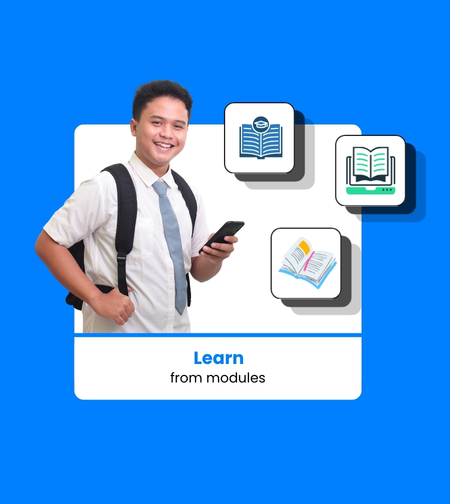
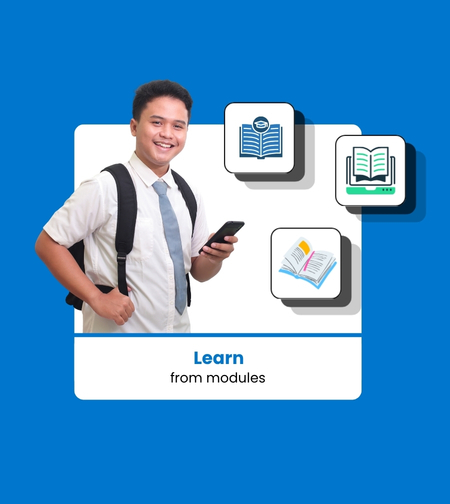
commit

diff --git a/css_folder/style.css b/css_folder/style.css
@@ -97,7 +97,9 @@ body {
     /* border-left: 1px solid rgba(0, 0, 0, 0.1); */
     /* background-color: var(--bg-page); */
     /* background: radial-gradient(ellipse 120% 80% at 50% -10%, rgba(0, 207, 255, 0.16), transparent 60%), linear-gradient(180deg, var(--bg-darkest) 0%, var(--bg-dark) 55%, var(--bg-panel) 100%); */
-    background-color: var(--bg-section-alt);
+    /* background-color: var(--bg-section-alt); */
+    /* background-color: #ffffff; */
+    background-color: var(--panel-bg);
     position: relative;
     overflow-x: hidden;
     overflow-y: visible;
@@ -842,11 +844,14 @@ div.rightbar{
     border: 1px solid var(--border-dim); */
     /* background: radial-gradient(ellipse 60% 100% at 100% 0%, rgba(0, 207, 255, 0.16), transparent 60%), radial-gradient(ellipse 50% 80% at 0% 100%, rgba(0, 255, 136, 0.12), transparent 60%), linear-gradient(135deg, var(--bg-dark) 0%, var(--bg-darkest) 100%); */
     /* background: linear-gradient(130deg, #0A1628 0%, #0F2845 60%, #0A2040 100%); */
+    /* background-color: var(--panel-bg); */
     background-color: #ffffff;
+    /* border: 1px solid var(--panel-border); */
+    /* box-shadow: 0 20px 50px rgba(0, 40, 100, 0.18); */
     border: 1px solid var(--panel-border);
     /* box-shadow: 0 1px 4px rgba(0, 0, 0, 0.05); */
-    /* box-shadow: 0 1px 3px rgba(0, 0, 0, 0.06), 0 1px 2px rgba(0, 0, 0, 0.04); */
-    /* border-radius: 16px; */
+    box-shadow: 0 1px 3px rgba(0, 0, 0, 0.06), 0 1px 2px rgba(0, 0, 0, 0.04);
+    border-radius: 10px;
     display: flex;
     justify-content: space-between;
     align-items: center;
@@ -987,6 +992,8 @@ div.rightbar{
     /* background-color: #ffffff; */
     border: 1px solid var(--panel-border);
     /* background-color: var(--light-card); */
+    box-shadow: 0 1px 3px rgba(0, 0, 0, 0.06), 0 1px 2px rgba(0, 0, 0, 0.04);
+    border-radius: 10px;
     background-color: var(--bg-main);
     /* padding: 1.5rem 1.1rem 1.5rem 1.1rem; */
     /* padding: 1.5rem; */
@@ -1415,7 +1422,8 @@ div.rightbar{
     width: 100%;
     /* height: 300px; */
     /* border: 2px solid #6CCA55; */
-    /* box-shadow: 0 1px 3px rgba(0, 0, 0, 0.06), 0 1px 2px rgba(0, 0, 0, 0.04); */
+    box-shadow: 0 1px 3px rgba(0, 0, 0, 0.06), 0 1px 2px rgba(0, 0, 0, 0.04);
+    border-radius: 10px;
     /* border: 1px solid #e2e8f0; */
     /* background-color: #ffffff; */
     /* background-color: var(--bg-card); */

diff --git a/app/view/login.php b/app/view/login.php
@@ -120,11 +120,11 @@
                     </div>
 
                     <div class="carousel-slide slide-2">
-                        <img src="../images/login4.jpg" alt="">
+                        <img src="../images/login5.jpg" alt="">
                     </div>
 
                     <div class="carousel-slide slide-3">
-                        <img src="../images/login6.jpg" alt="">
+                        <img src="../images/login9.jpg" alt="">
                     </div>
                 </div>
 
